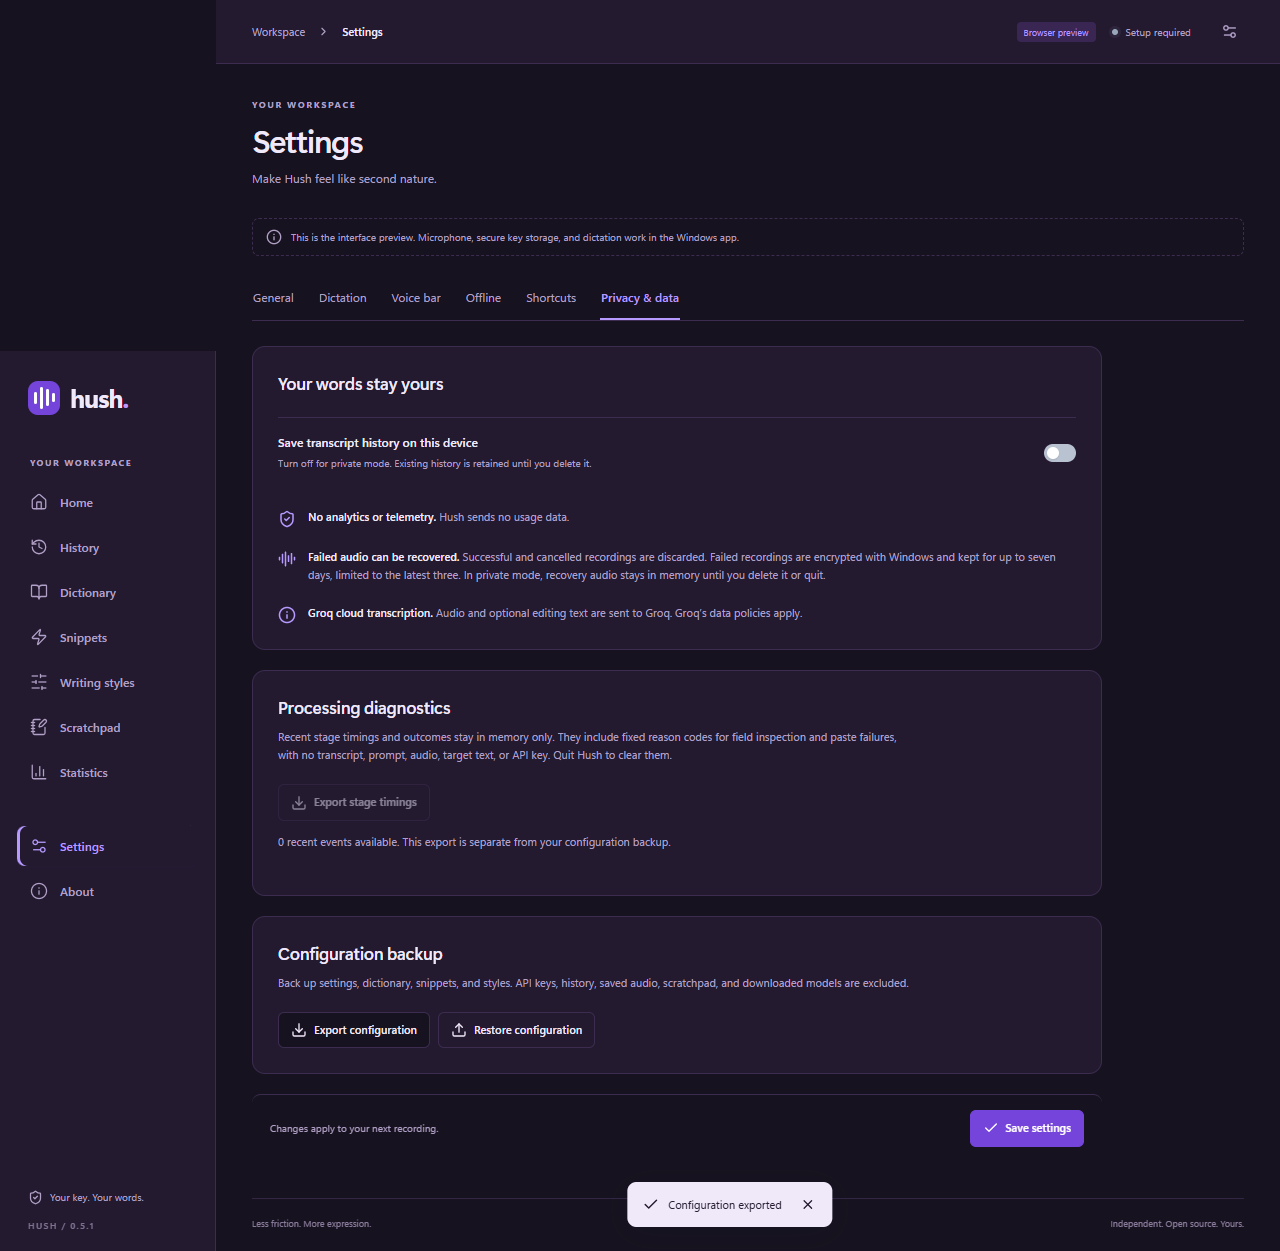
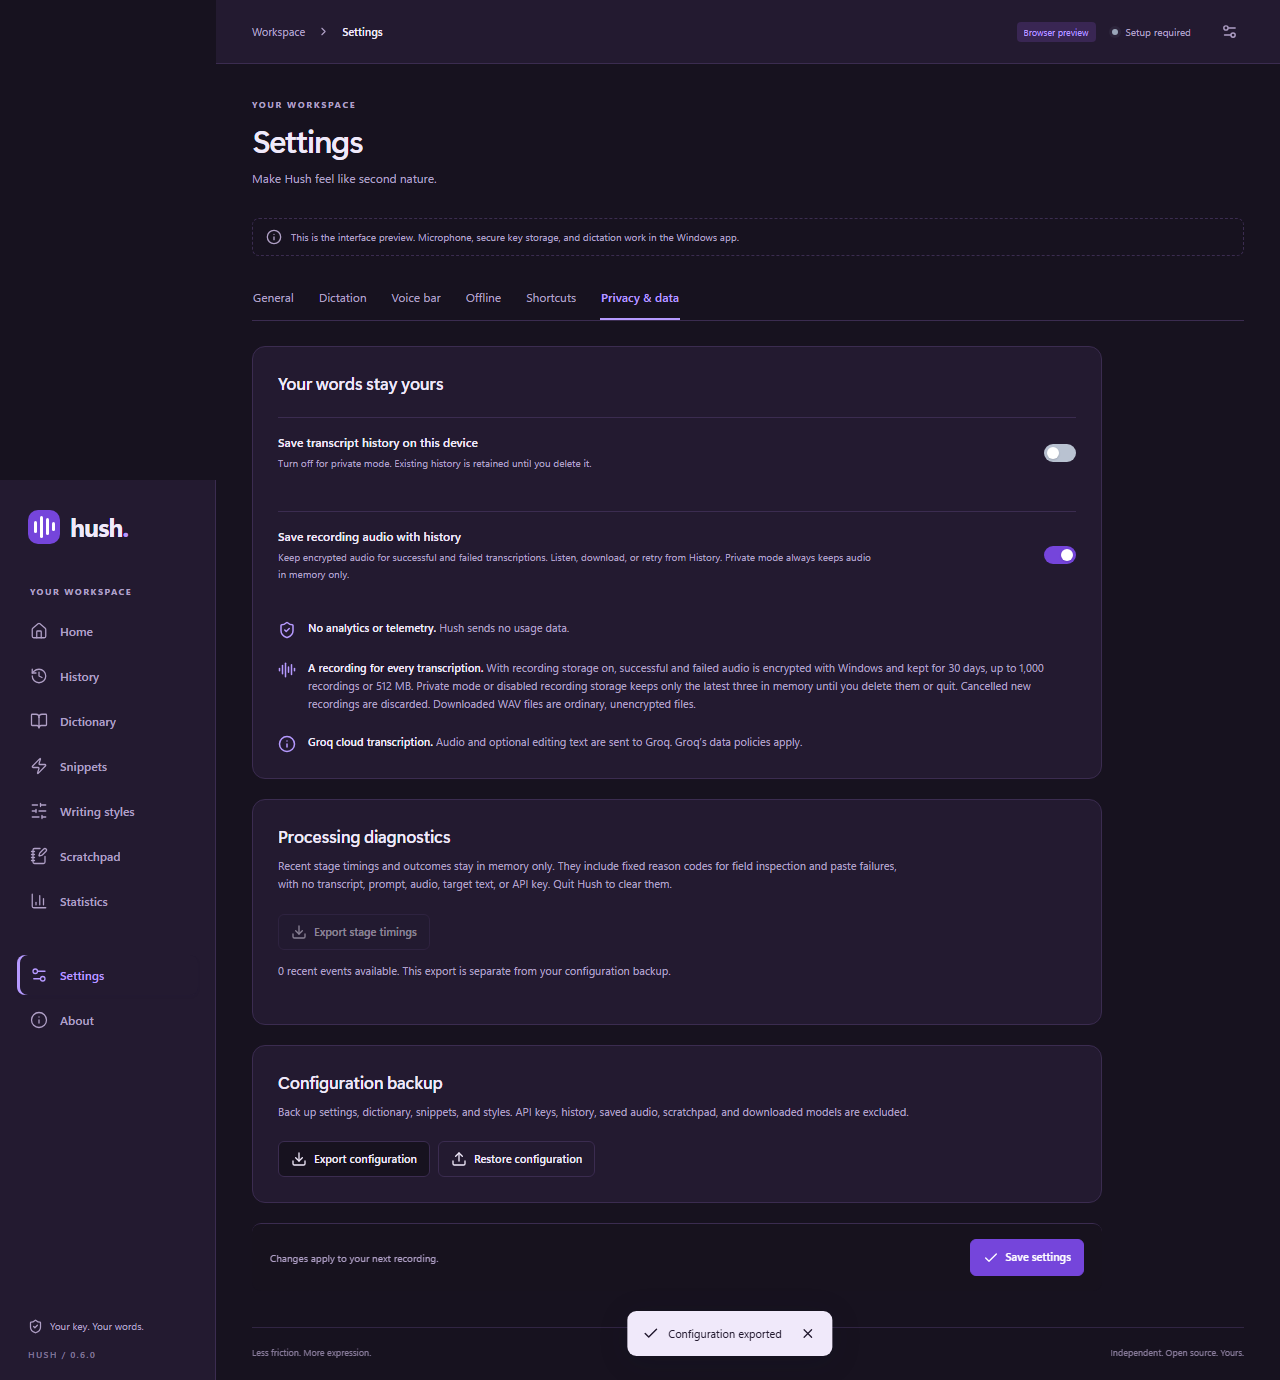
Verify recording history across the full dashboard suite and installer

diff --git a/tests/ui/dashboard.spec.ts b/tests/ui/dashboard.spec.ts
@@ -144,7 +144,7 @@ test('voice bar preview unfolds upward with an anchored base and respects reduce
 test('timeout preference persists and failed audio can be deleted from Home', async ({page}) => {
   await page.getByRole('button',{name:'Settings',exact:true}).click();
   await page.getByRole('tab',{name:'Dictation',exact:true}).click();
-  await expect(page.getByLabel('Transcription timeout (seconds)')).toHaveValue('5');
+  await expect(page.getByLabel('Transcription timeout (seconds)')).toHaveValue('30');
   await page.getByLabel('Transcription timeout (seconds)').fill('12');
   await page.getByRole('button',{name:'Save settings',exact:true}).click();
   await page.reload();
@@ -153,12 +153,12 @@ test('timeout preference persists and failed audio can be deleted from Home', as
   await expect(page.getByLabel('Transcription timeout (seconds)')).toHaveValue('12');
   await page.evaluate(()=>{const key='hushline-browser-preview-v1', data=JSON.parse(localStorage.getItem(key)!);data.savedAudio=[{id:'ui-metadata-only',createdAt:new Date().toISOString(),durationMs:8000,requiresReview:false,inMemory:true}];localStorage.setItem(key,JSON.stringify(data));});
   await page.reload();
-  await expect(page.getByRole('heading',{name:/Saved audio/})).toBeVisible();
+  await expect(page.getByRole('heading',{name:/Recordings to retry/})).toBeVisible();
   await expect(page.getByText('Memory only · lost when Hush quits')).toBeVisible();
-  await expect(page.getByRole('button',{name:'Retry',exact:true})).toBeDisabled();
+  await expect(page.getByRole('button',{name:'Retry transcription',exact:true})).toBeDisabled();
   await page.getByRole('button',{name:'Delete saved audio'}).click();
   await page.getByRole('button',{name:'Delete permanently'}).click();
-  await expect(page.getByRole('heading',{name:/Saved audio/})).toHaveCount(0);
+  await expect(page.getByRole('heading',{name:/Recordings to retry/})).toHaveCount(0);
 });
 
 

diff --git a/docs/QA.md b/docs/QA.md
@@ -322,3 +322,7 @@ Hosted Windows CI passed for implementation commit `a8004ce`, including frontend
 The optimized 0.5.2 executable passed native IPC, microphone cancellation and normal silent Stop without upload, preferences/privacy/dictionary/backup checks, and dashboard close/tray/reopen. Its existing real key and preferences/history were preserved. [Desktop report](verification/desktop-smoke-0.5.2.json). Per-user install/background launch/uninstall and retained profile/unrelated registration checks passed; [installer results](verification/installer-test-0.5.2.json). Installer and portable packages were generated; [sizes/checksums](verification/artifacts-0.5.2.json).
 
 Hosted Windows CI passed for implementation commit `26790a4`, including frontend/browser checks, Rust formatting/Clippy/tests, real offline CPU recognition and installer/portable packaging: [run](https://github.com/chahatesh/Hushline/actions/runs/40121215497), [step results](verification/ci-0.5.2.json). The live microphone-to-Groq-to-target acceptance protocol and prompt editing acceptance remain incomplete, so no public Release is published.
+
+### 0.6.0 complete dashboard and packaging checks
+
+All **19 headless dashboard tests** passed after updating the legacy recovery test's expected 30-second default, panel name and Retry label. Its custom 12-second setting still persists. Public browser screenshots were refreshed. The optimized executable, per-user NSIS installer and portable ZIP were produced. Automated silent install, background launch, dependency notices, clean uninstall, existing-profile retention and preservation of unrelated legacy Hush registration/shortcuts passed. [Installer evidence](verification/installer-test-0.6.0.json), [binary/archive sizes and checksums](verification/artifacts-0.6.0.json). Interactive installer wizard, in-place upgrade and the new live recording/playback/retry acceptance remain open. Test/report/screenshot follow-ups do not change the packaged production sources from `8b0a22e`.
